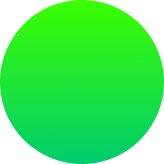
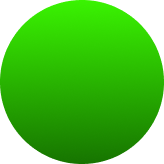
ok

diff --git a/hide/infi.html b/hide/infi.html
@@ -1528,14 +1528,14 @@ referrerPolicy="no-referrer-when-downgrade"></a></div></noscript>
           </div>
         </div>
         <div class="testimonial-card">
-          <p class="testimonial-quote">The pattern library and interactive specs she handed off let us ship without constant back-and-forth. That's rare. We literally built from her docs.</p>
+          <p class="testimonial-quote">The pattern library and interactive specs she handed off let us ship without constant back-and-forth. That's rare. We literally built from her docs.<br></p>
           <div class="testimonial-author">
             <div class="testimonial-avatar">
               <img src="https://finelli.xyz/images/avatar_2.png" alt="Developer">
             </div>
             <div class="testimonial-info">
               <div class="testimonial-name">Marcus Rodriguez</div>
-              <div class="testimonial-role">Lead Dev, Dev Team</div>
+              <div class="testimonial-role">Lead Dev, Development Team</div>
             </div>
           </div>
         </div>